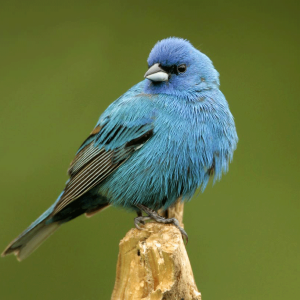
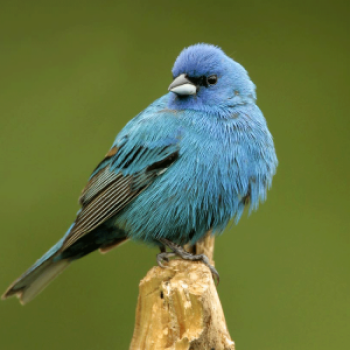
pushone

Changed region(s): [[0.21, 0.42, 0.39, 0.69], [0.57, 0.57, 0.6, 0.6]]

diff --git a/BirdLogger.Web.MVC/Content/Site.css b/BirdLogger.Web.MVC/Content/Site.css
@@ -1,4 +1,5 @@
-body {
+
+body {
     padding-top: 50px;
     padding-bottom: 20px;
 }
@@ -25,10 +26,14 @@ textarea {
 
 .jumbotron {
     background-image: url(Assets/Sky1.png);
-    background-size: cover;
+    background-size: contain;
     text-align: center;
     font-family: 'Josefin Sans', sans-serif;
     font-family: 'Open Sans Condensed', sans-serif;
+
+   
 }
+
+
 
 

diff --git a/BirdLogger.Web.MVC/Content/bootstrap.css b/BirdLogger.Web.MVC/Content/bootstrap.css
@@ -91,7 +91,7 @@ sub {
 }
 img {
   border: 0;
-  width: 300px;
+  width:inherit;
 }
 svg:not(:root) {
   overflow: hidden;
